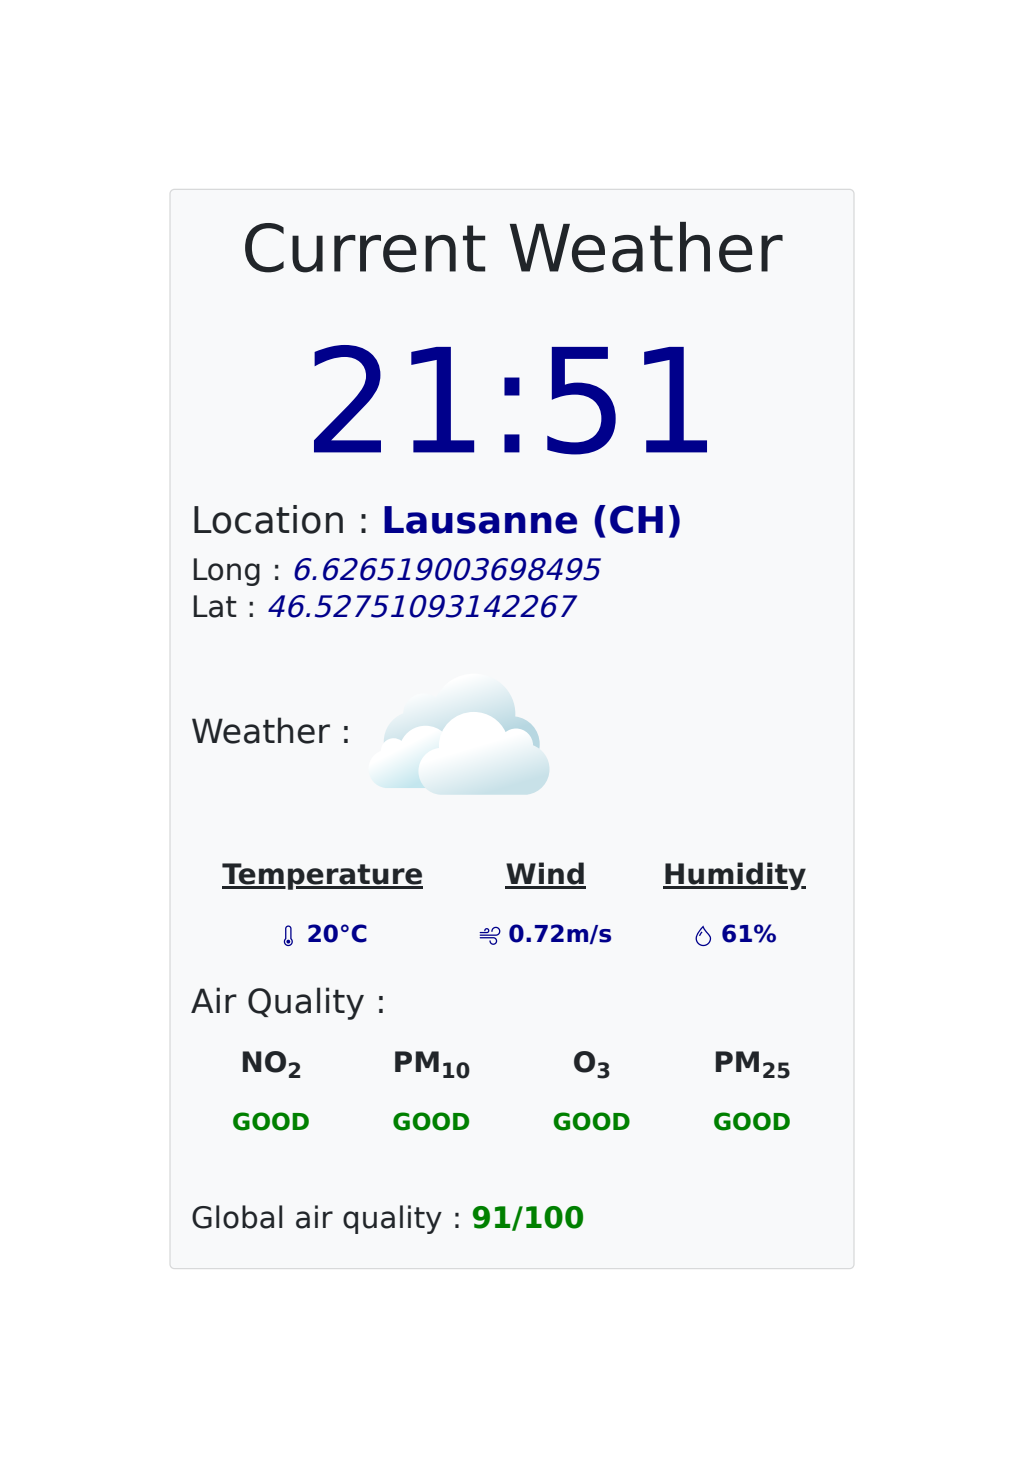
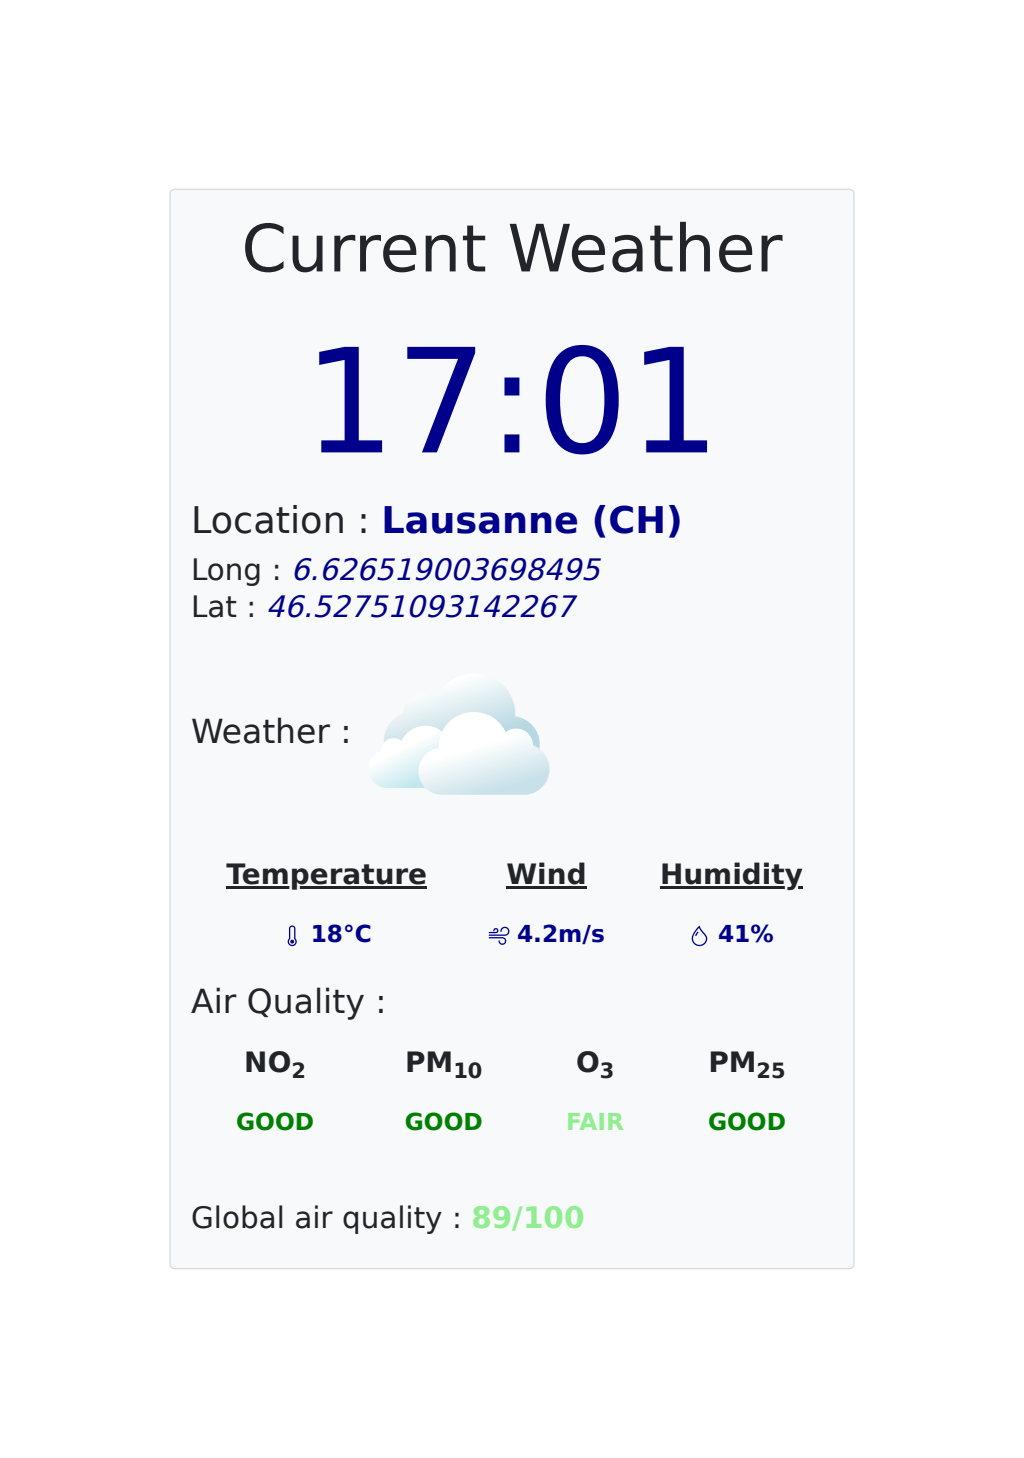
test apikey

diff --git a/files/current.html b/files/current.html
@@ -71,7 +71,7 @@
                                     <div class="card bg-light mx-auto">
                                         <div class="card-body">
                                             <h1 class="display-3" style="text-align: center; margin-bottom: 20px;">Current Weather</h1>
-                                            <h1 class="clock">21:51</h1>
+                                            <h1 class="clock">17:01</h1>
                                             <h2>Location : <b style="color : darkblue;">Lausanne (CH)</b> </h2>
     
                                             <h4>Long : <i style="color : darkblue;">6.626519003698495</i><br>Lat : <i style="color : darkblue;">46.52751093142267</i></h4>
@@ -84,14 +84,14 @@
                                                 <td > <svg xmlns="http://www.w3.org/2000/svg" width="16" height="16" fill="currentColor" class="bi bi-thermometer" viewBox="0 0 16 16">
                                                     <path d="M8 14a1.5 1.5 0 1 0 0-3 1.5 1.5 0 0 0 0 3z"/>
                                                     <path d="M8 0a2.5 2.5 0 0 0-2.5 2.5v7.55a3.5 3.5 0 1 0 5 0V2.5A2.5 2.5 0 0 0 8 0zM6.5 2.5a1.5 1.5 0 1 1 3 0v7.987l.167.15a2.5 2.5 0 1 1-3.333 0l.166-.15V2.5z"/>
-                                                </svg> 20&#176;C</td>
+                                                </svg> 18&#176;C</td>
                                                 <td > <svg xmlns="http://www.w3.org/2000/svg" width="16" height="16" fill="currentColor" class="bi bi-wind" viewBox="0 0 16 16">
                                                     <path d="M12.5 2A2.5 2.5 0 0 0 10 4.5a.5.5 0 0 1-1 0A3.5 3.5 0 1 1 12.5 8H.5a.5.5 0 0 1 0-1h12a2.5 2.5 0 0 0 0-5zm-7 1a1 1 0 0 0-1 1 .5.5 0 0 1-1 0 2 2 0 1 1 2 2h-5a.5.5 0 0 1 0-1h5a1 1 0 0 0 0-2zM0 9.5A.5.5 0 0 1 .5 9h10.042a3 3 0 1 1-3 3 .5.5 0 0 1 1 0 2 2 0 1 0 2-2H.5a.5.5 0 0 1-.5-.5z"/>
-                                                </svg> 0.72m/s</td>
+                                                </svg> 4.2m/s</td>
                                                 <td > <svg xmlns="http://www.w3.org/2000/svg" width="16" height="16" fill="currentColor" class="bi bi-droplet" viewBox="0 0 16 16">
                                                     <path fill-rule="evenodd" d="M7.21.8C7.69.295 8 0 8 0c.109.363.234.708.371 1.038.812 1.946 2.073 3.35 3.197 4.6C12.878 7.096 14 8.345 14 10a6 6 0 0 1-12 0C2 6.668 5.58 2.517 7.21.8zm.413 1.021A31.25 31.25 0 0 0 5.794 3.99c-.726.95-1.436 2.008-1.96 3.07C3.304 8.133 3 9.138 3 10a5 5 0 0 0 10 0c0-1.201-.796-2.157-2.181-3.7l-.03-.032C9.75 5.11 8.5 3.72 7.623 1.82z"/>
                                                     <path fill-rule="evenodd" d="M4.553 7.776c.82-1.641 1.717-2.753 2.093-3.13l.708.708c-.29.29-1.128 1.311-1.907 2.87l-.894-.448z"/>
-                                                </svg> 61%</td>
+                                                </svg> 41%</td>
                                             </tr> 
                                             </table>
                                             <h3>Air Quality :</h3>
@@ -100,10 +100,10 @@
                                                 <th>PM<sub>10</sub></th>
                                                 <th>O<sub>3</sub></th>
                                                 <th>PM<sub>25</sub></th>
-                                                <tr><td class="good">GOOD</td><td class="good">GOOD</td><td class="good">GOOD</td><td class="good">GOOD</td></tr>
+                                                <tr><td class="good">GOOD</td><td class="good">GOOD</td><td class="fair">FAIR</td><td class="good">GOOD</td></tr>
                                             </table>
                                             <br>
-                                            <h4>Global air quality : <b style="color : green;">91/100</b></h4>
+                                            <h4>Global air quality : <b style="color : lightgreen;">89/100</b></h4>
                                         </div>
                                     </div>
                                 </div>

diff --git a/utils.py b/utils.py
@@ -1,3 +1,5 @@
+from sys import stderr
+import sys
 import requests
 import os
 from flask import current_app
@@ -43,6 +45,8 @@ def convert_to_img(txt): #function to convert html files (passed as string) to p
         with open(os.path.abspath(current_app.static_folder + '/' + txt + '.png'), 'wb') as fd: #store returned file as png
             for chunk in response.iter_content(chunk_size=8096): #safe chunk size to convert without loss
                 fd.write(chunk)
+    else:
+        print(response.status_code)
     return 1
 
 

diff --git a/main.py b/main.py
@@ -16,8 +16,6 @@ LAUSANNE_LONGITUDE = 6.626519003698495
 
 
 OWM_KEY = os.environ["OWMKEY"][2:] #get keys store in server's OS
-keyconvert = os.environ["CONVKEY"][2:]
-
 
 @app.route("/")
 def hello(name=None):
